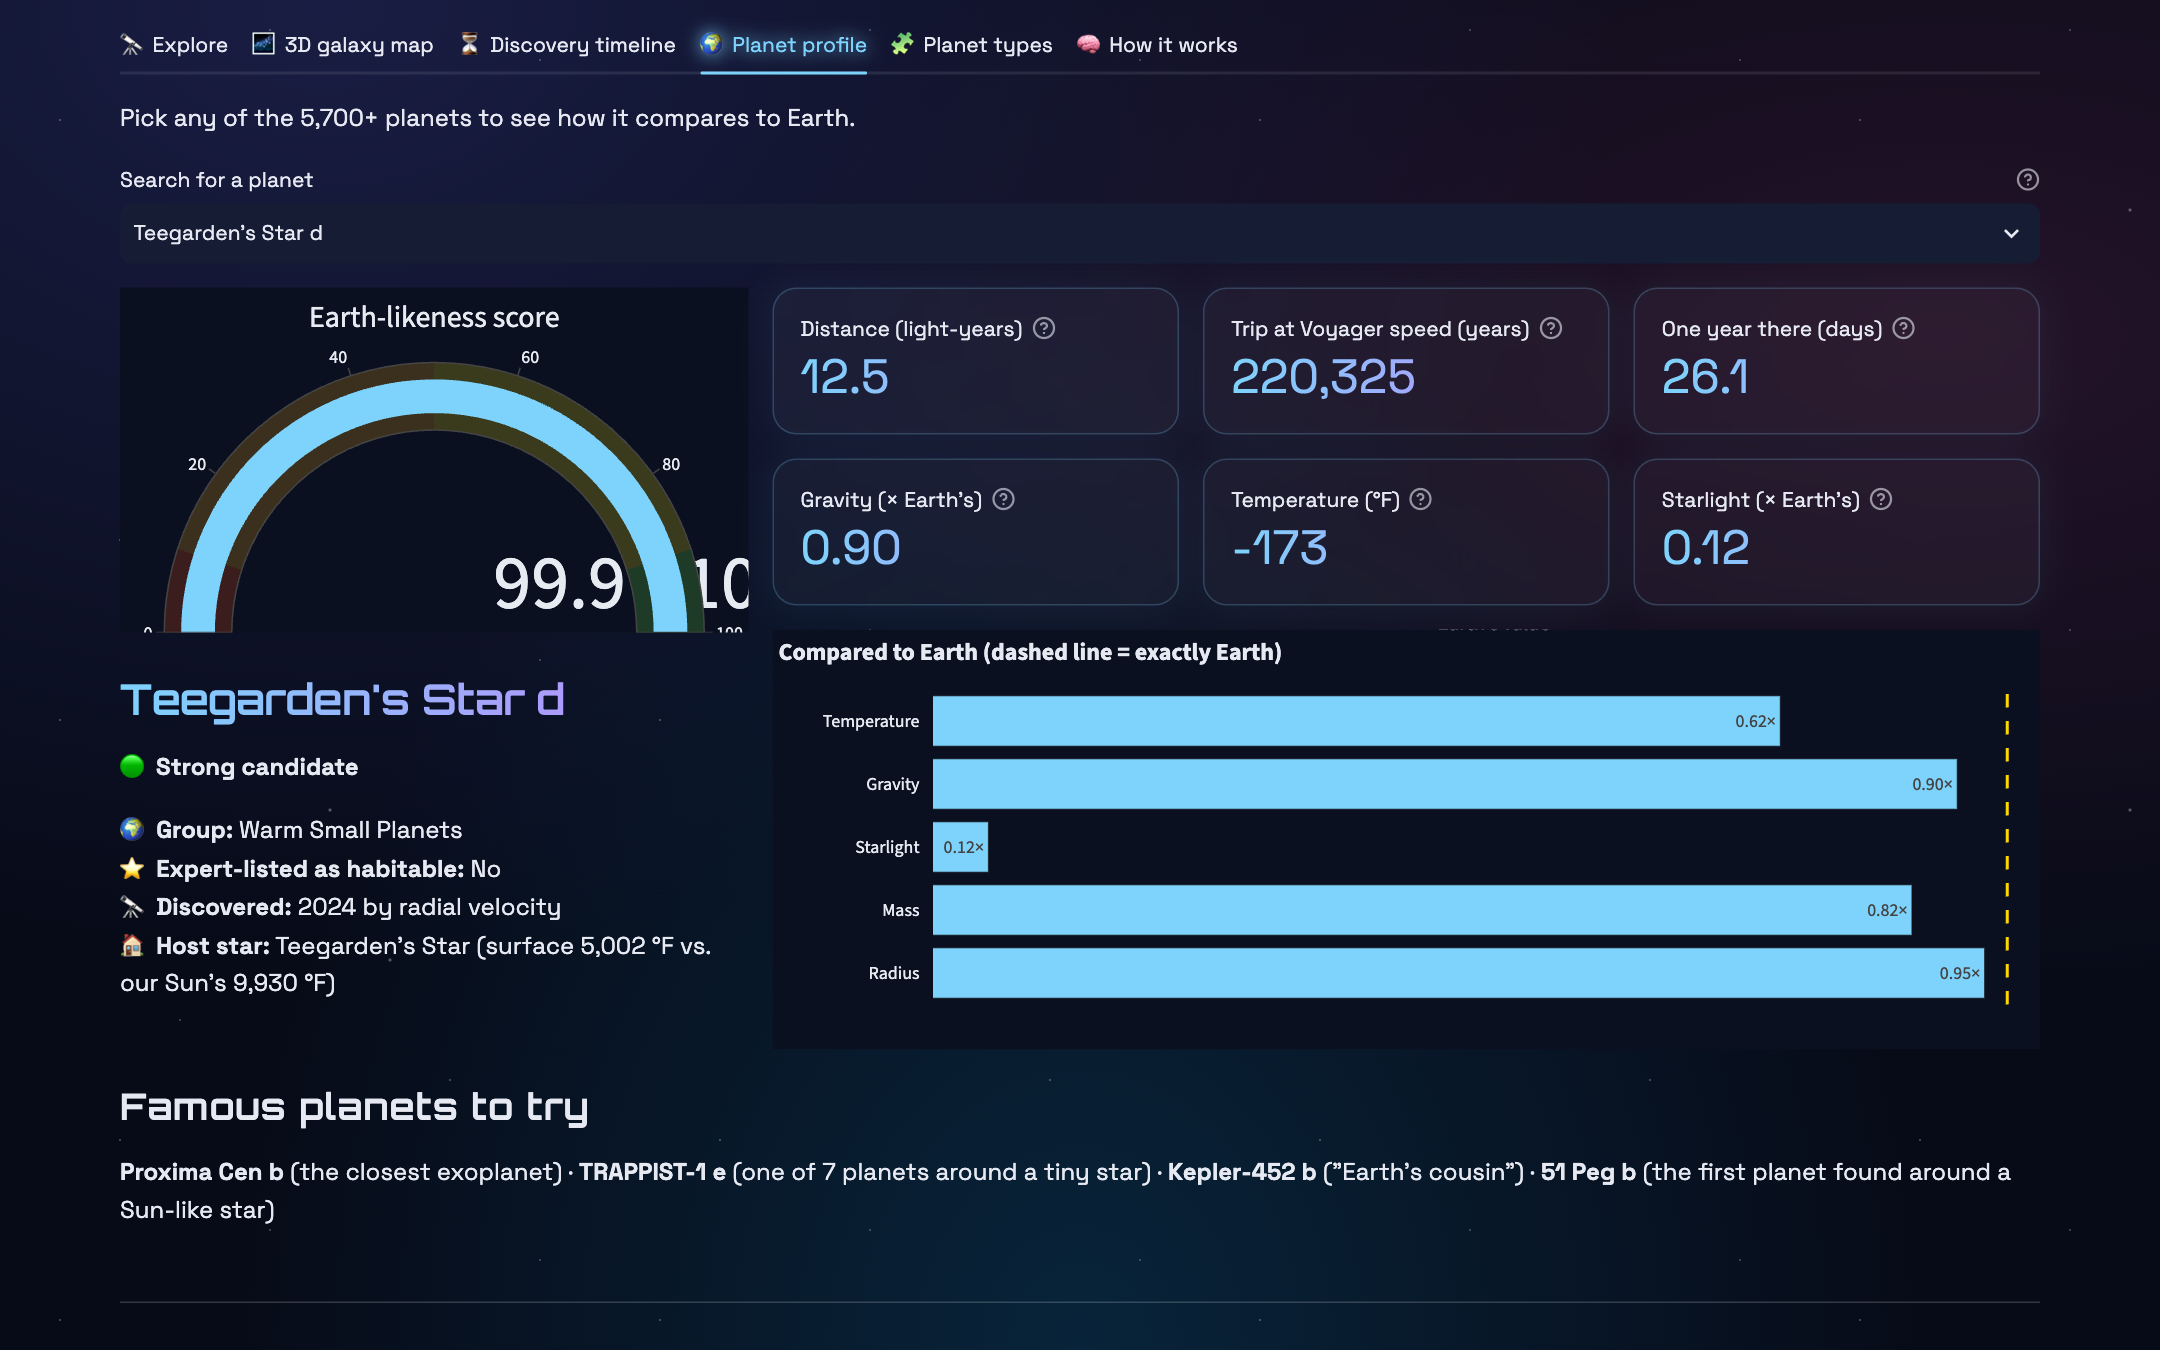
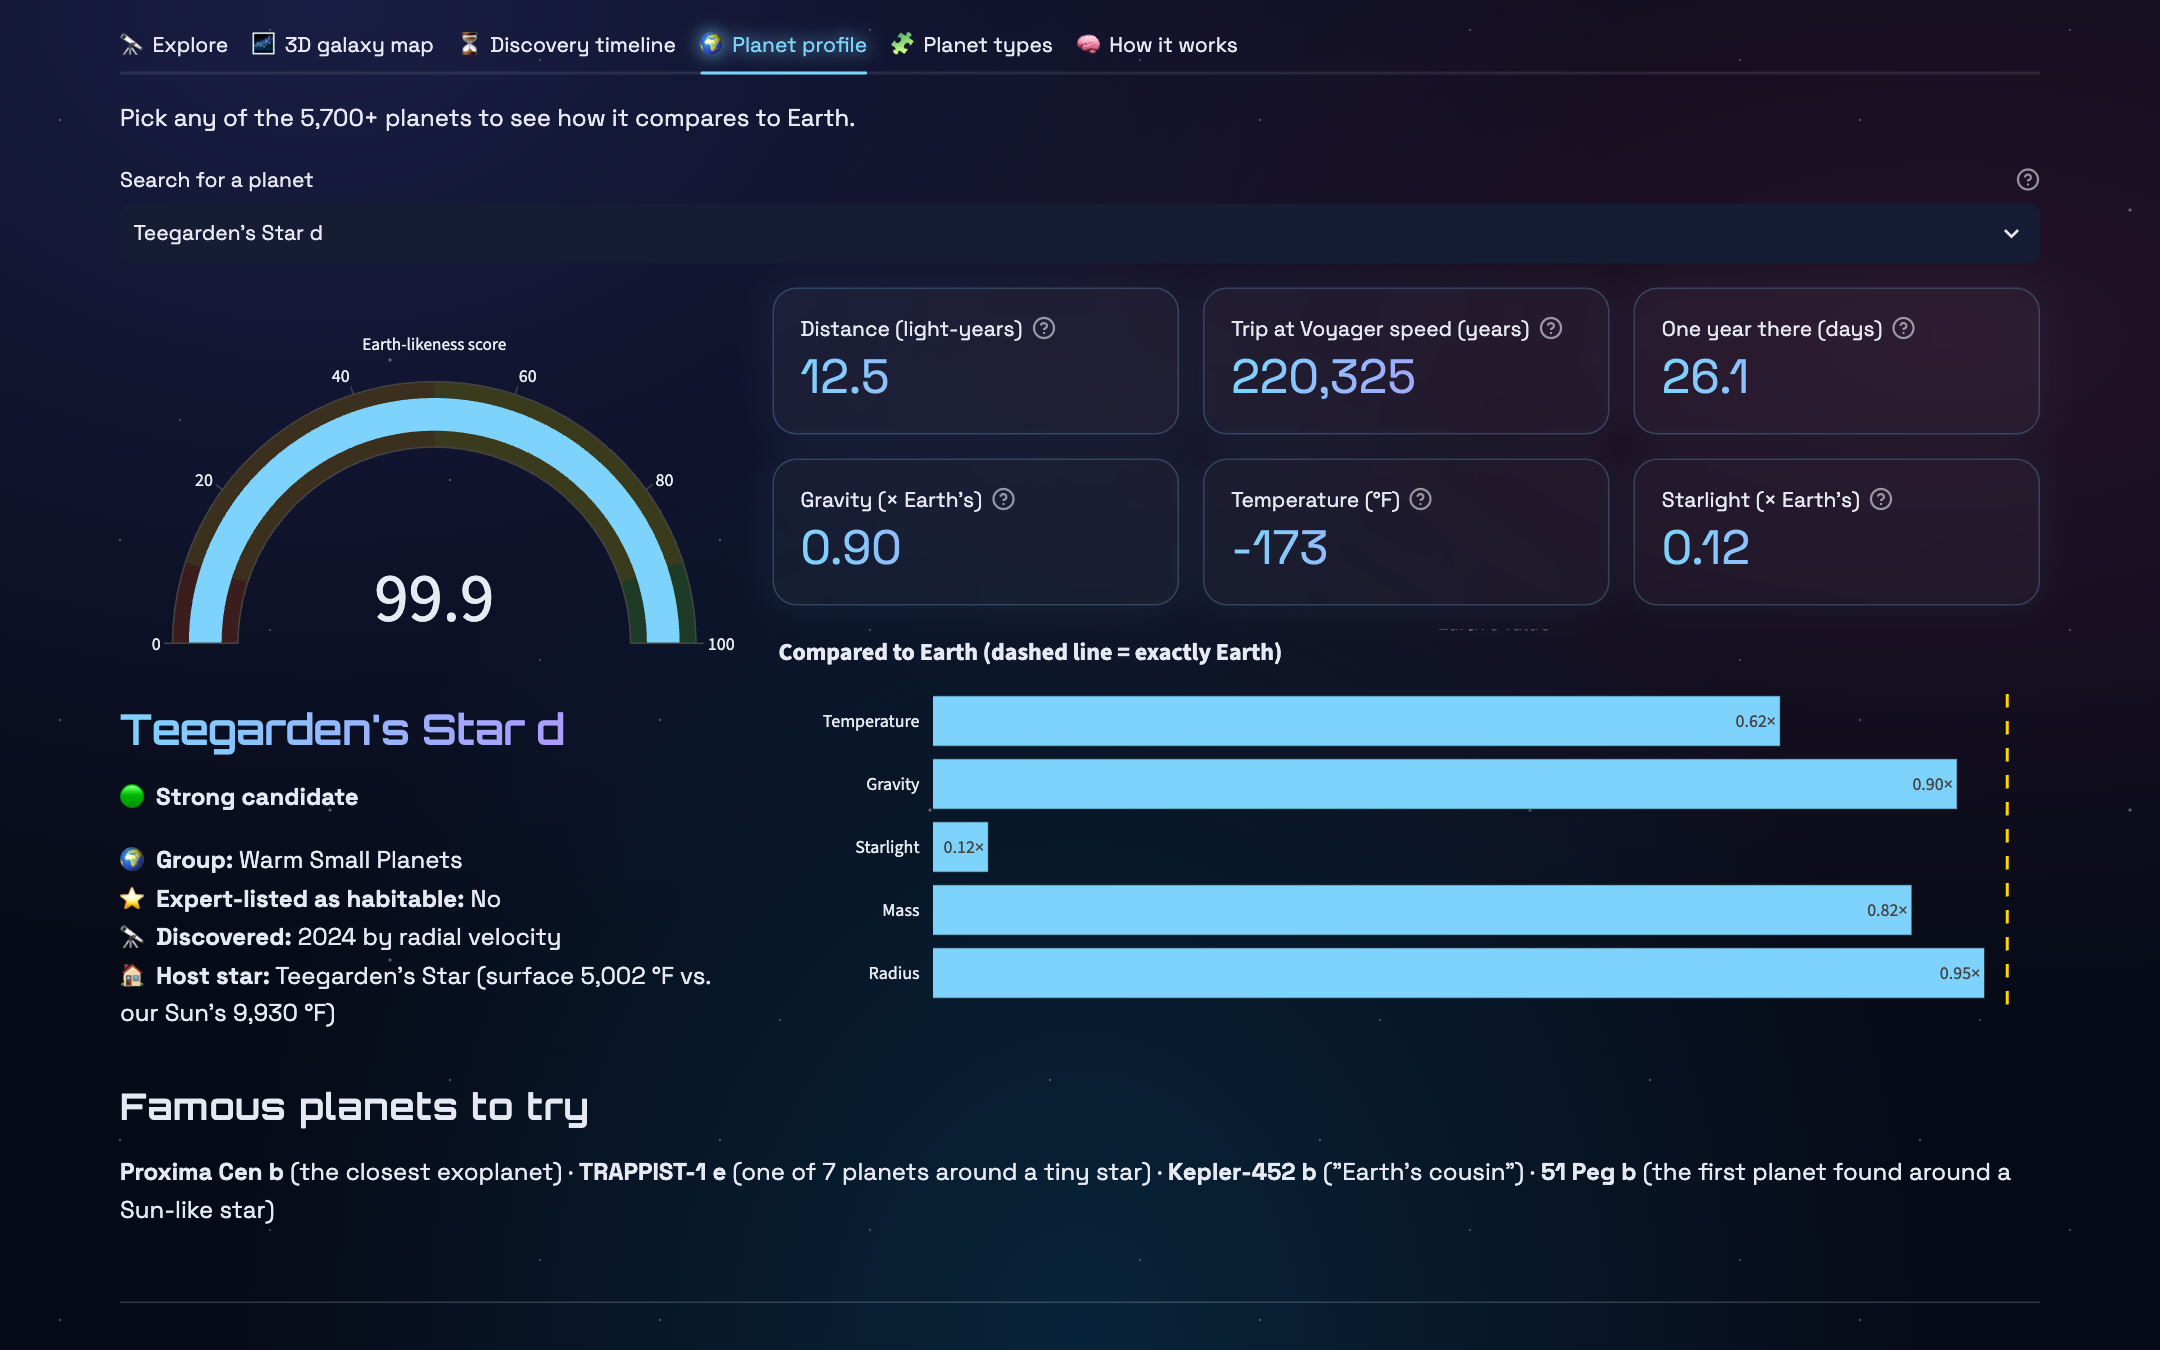
Fix planet profile score dial overflow; transparent chart backgrounds

Changed region(s): [[0.031, 0.2178, 0.3412, 0.7778]]

diff --git a/app/streamlit_app.py b/app/streamlit_app.py
@@ -147,13 +147,14 @@ def planet_card(name: str, where: str) -> None:
     with left:
         gauge = go.Figure(go.Indicator(
             mode="gauge+number", value=p["earth_likeness_score"],
-            number={"suffix": " / 100"},
+            number={"font": {"size": 46}, "valueformat": ".1f"},
             gauge={"axis": {"range": [0, 100]}, "bar": {"color": "#7dd3fc"},
                    "steps": [{"range": [0, 10], "color": "#3b1d1d"}, {"range": [10, 50], "color": "#3b2f1d"},
                              {"range": [50, 90], "color": "#3a3a1d"}, {"range": [90, 100], "color": "#1d3b26"}]},
             title={"text": "Earth-likeness score"},
         ))
-        gauge.update_layout(template=PLOT_TEMPLATE, height=230, margin=dict(t=50, b=0, l=20, r=20))
+        gauge.update_layout(template=PLOT_TEMPLATE, height=250, margin=dict(t=60, b=10, l=35, r=35),
+                            paper_bgcolor="rgba(0,0,0,0)", plot_bgcolor="rgba(0,0,0,0)")
         st.plotly_chart(gauge, use_container_width=True, config=CHART_CONFIG, key=f"gauge_{where}")
         st.markdown(f"### {name}\n**{score_label(p['earth_likeness_score'])}**")
         icon, _ = GROUP_INFO[p["cluster_name"]]
@@ -184,7 +185,8 @@ def planet_card(name: str, where: str) -> None:
                      template=PLOT_TEMPLATE, title="Compared to Earth (dashed line = exactly Earth)")
         bar.add_vline(x=1, line_dash="dash", line_color="gold")
         bar.update_traces(marker_color="#7dd3fc")
-        bar.update_layout(height=280, margin=dict(t=40, b=10), xaxis_title="× Earth's value", yaxis_title="")
+        bar.update_layout(height=280, margin=dict(t=40, b=10), xaxis_title="× Earth's value", yaxis_title="",
+                          paper_bgcolor="rgba(0,0,0,0)", plot_bgcolor="rgba(0,0,0,0)")
         bar.update_xaxes(**RATIO_TICKS)
         st.plotly_chart(bar, use_container_width=True, config=CHART_CONFIG, key=f"compare_{where}")
         if p["mass_imputed"]:
